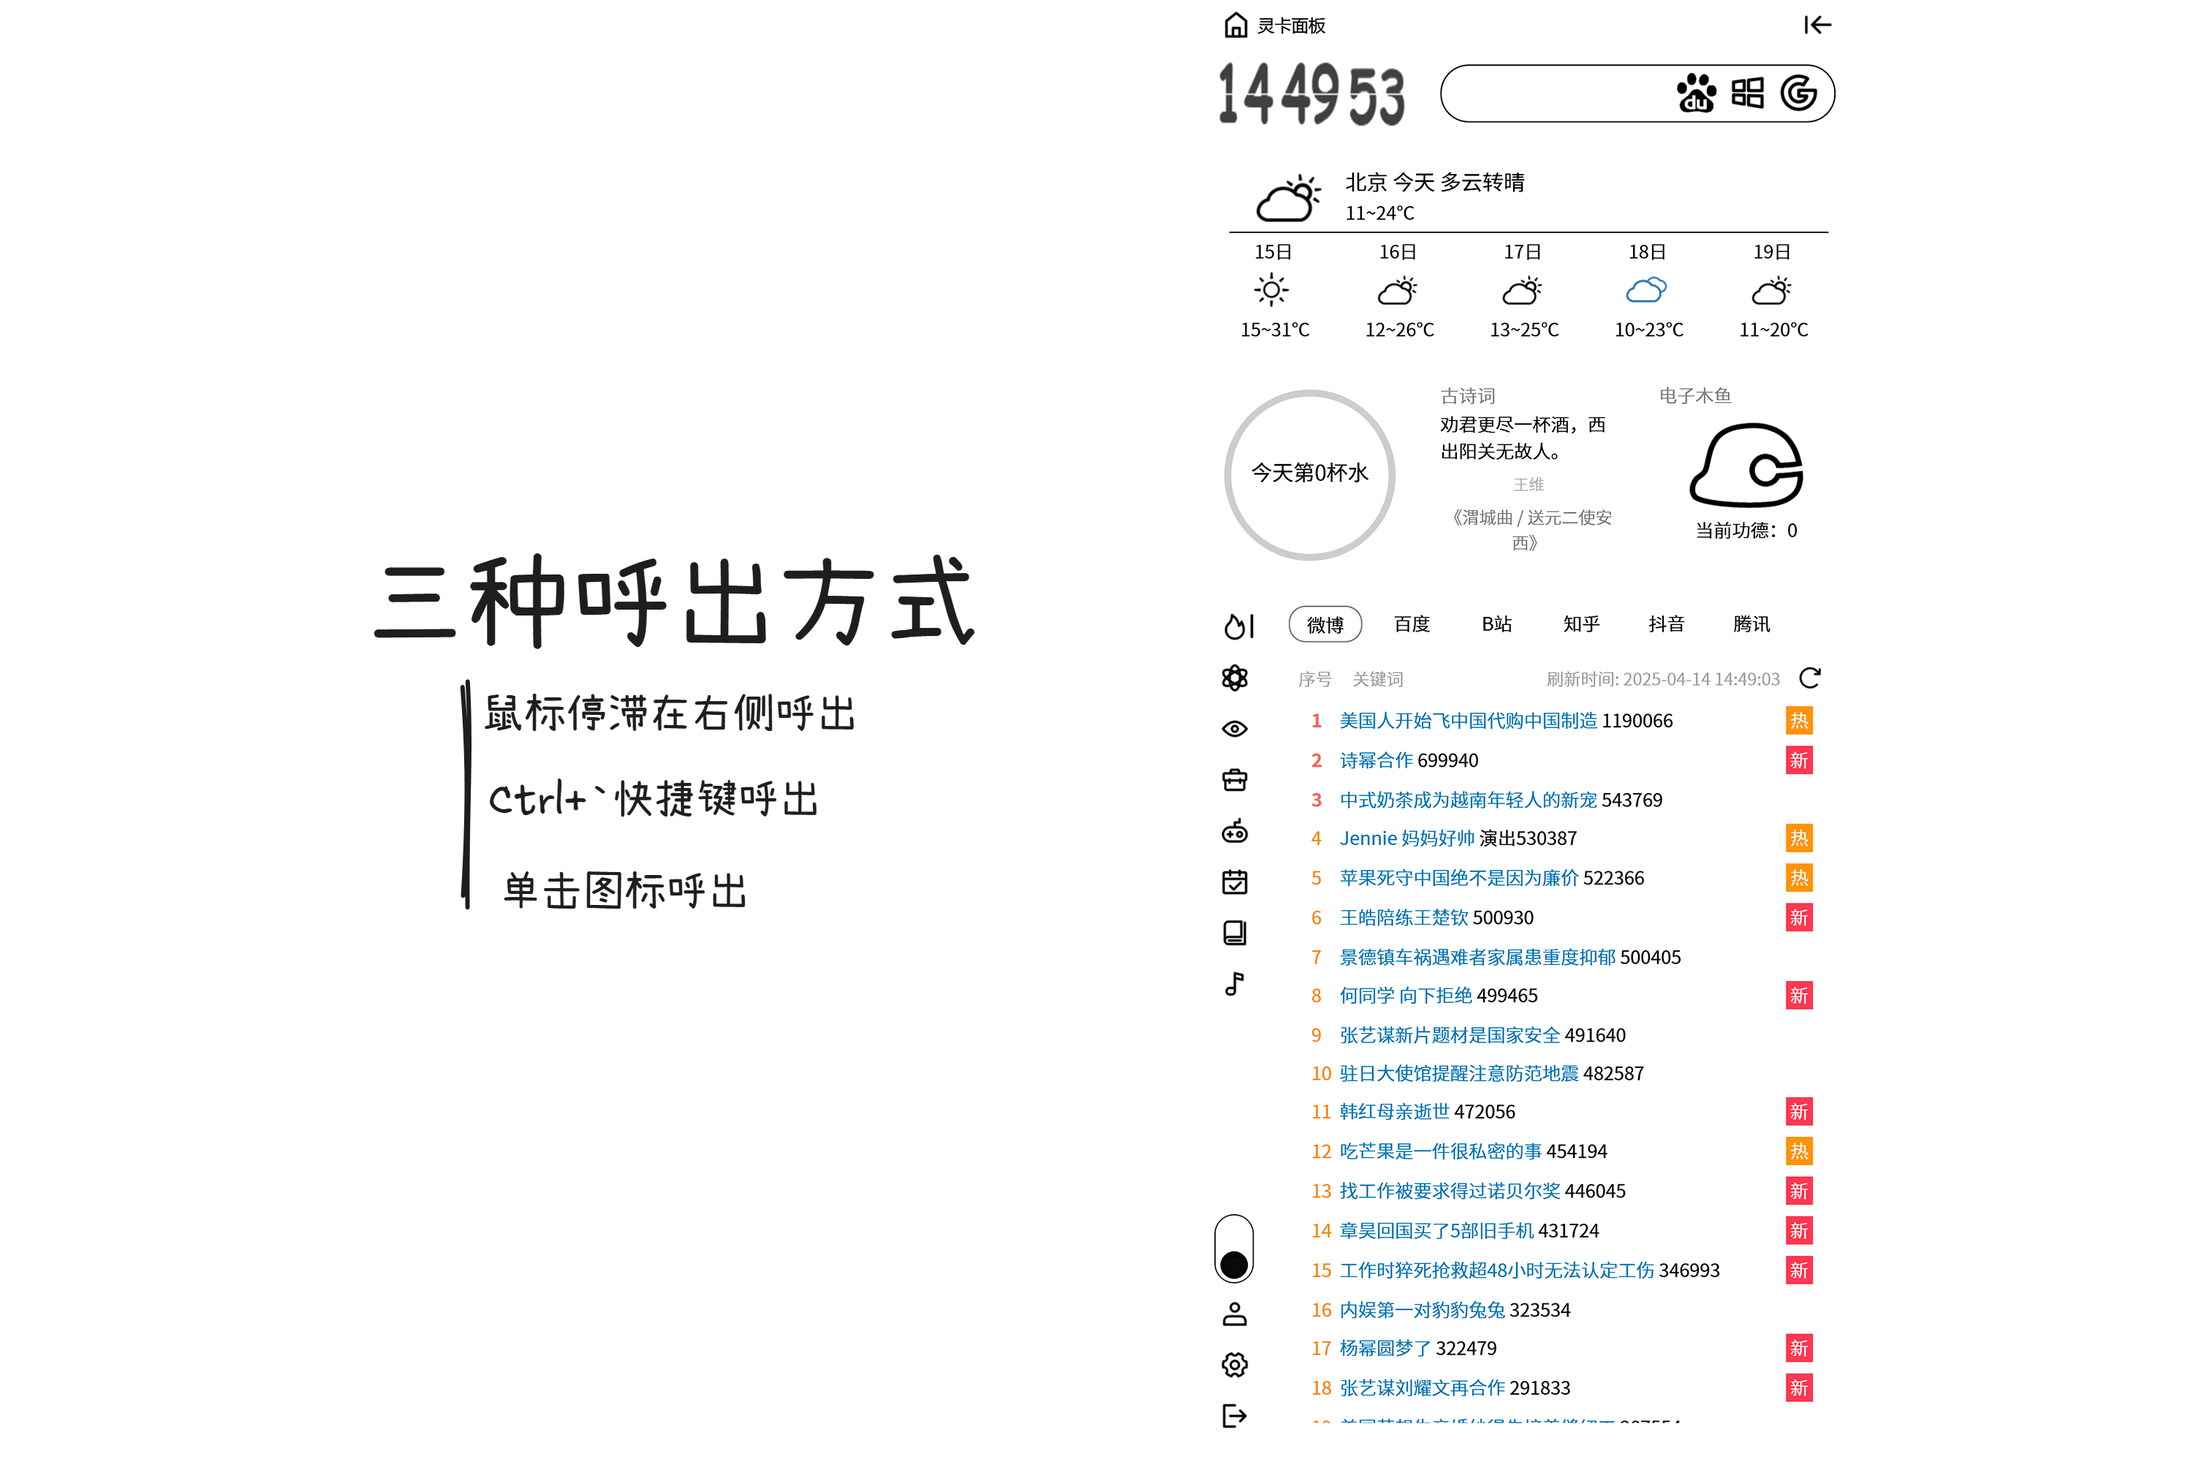
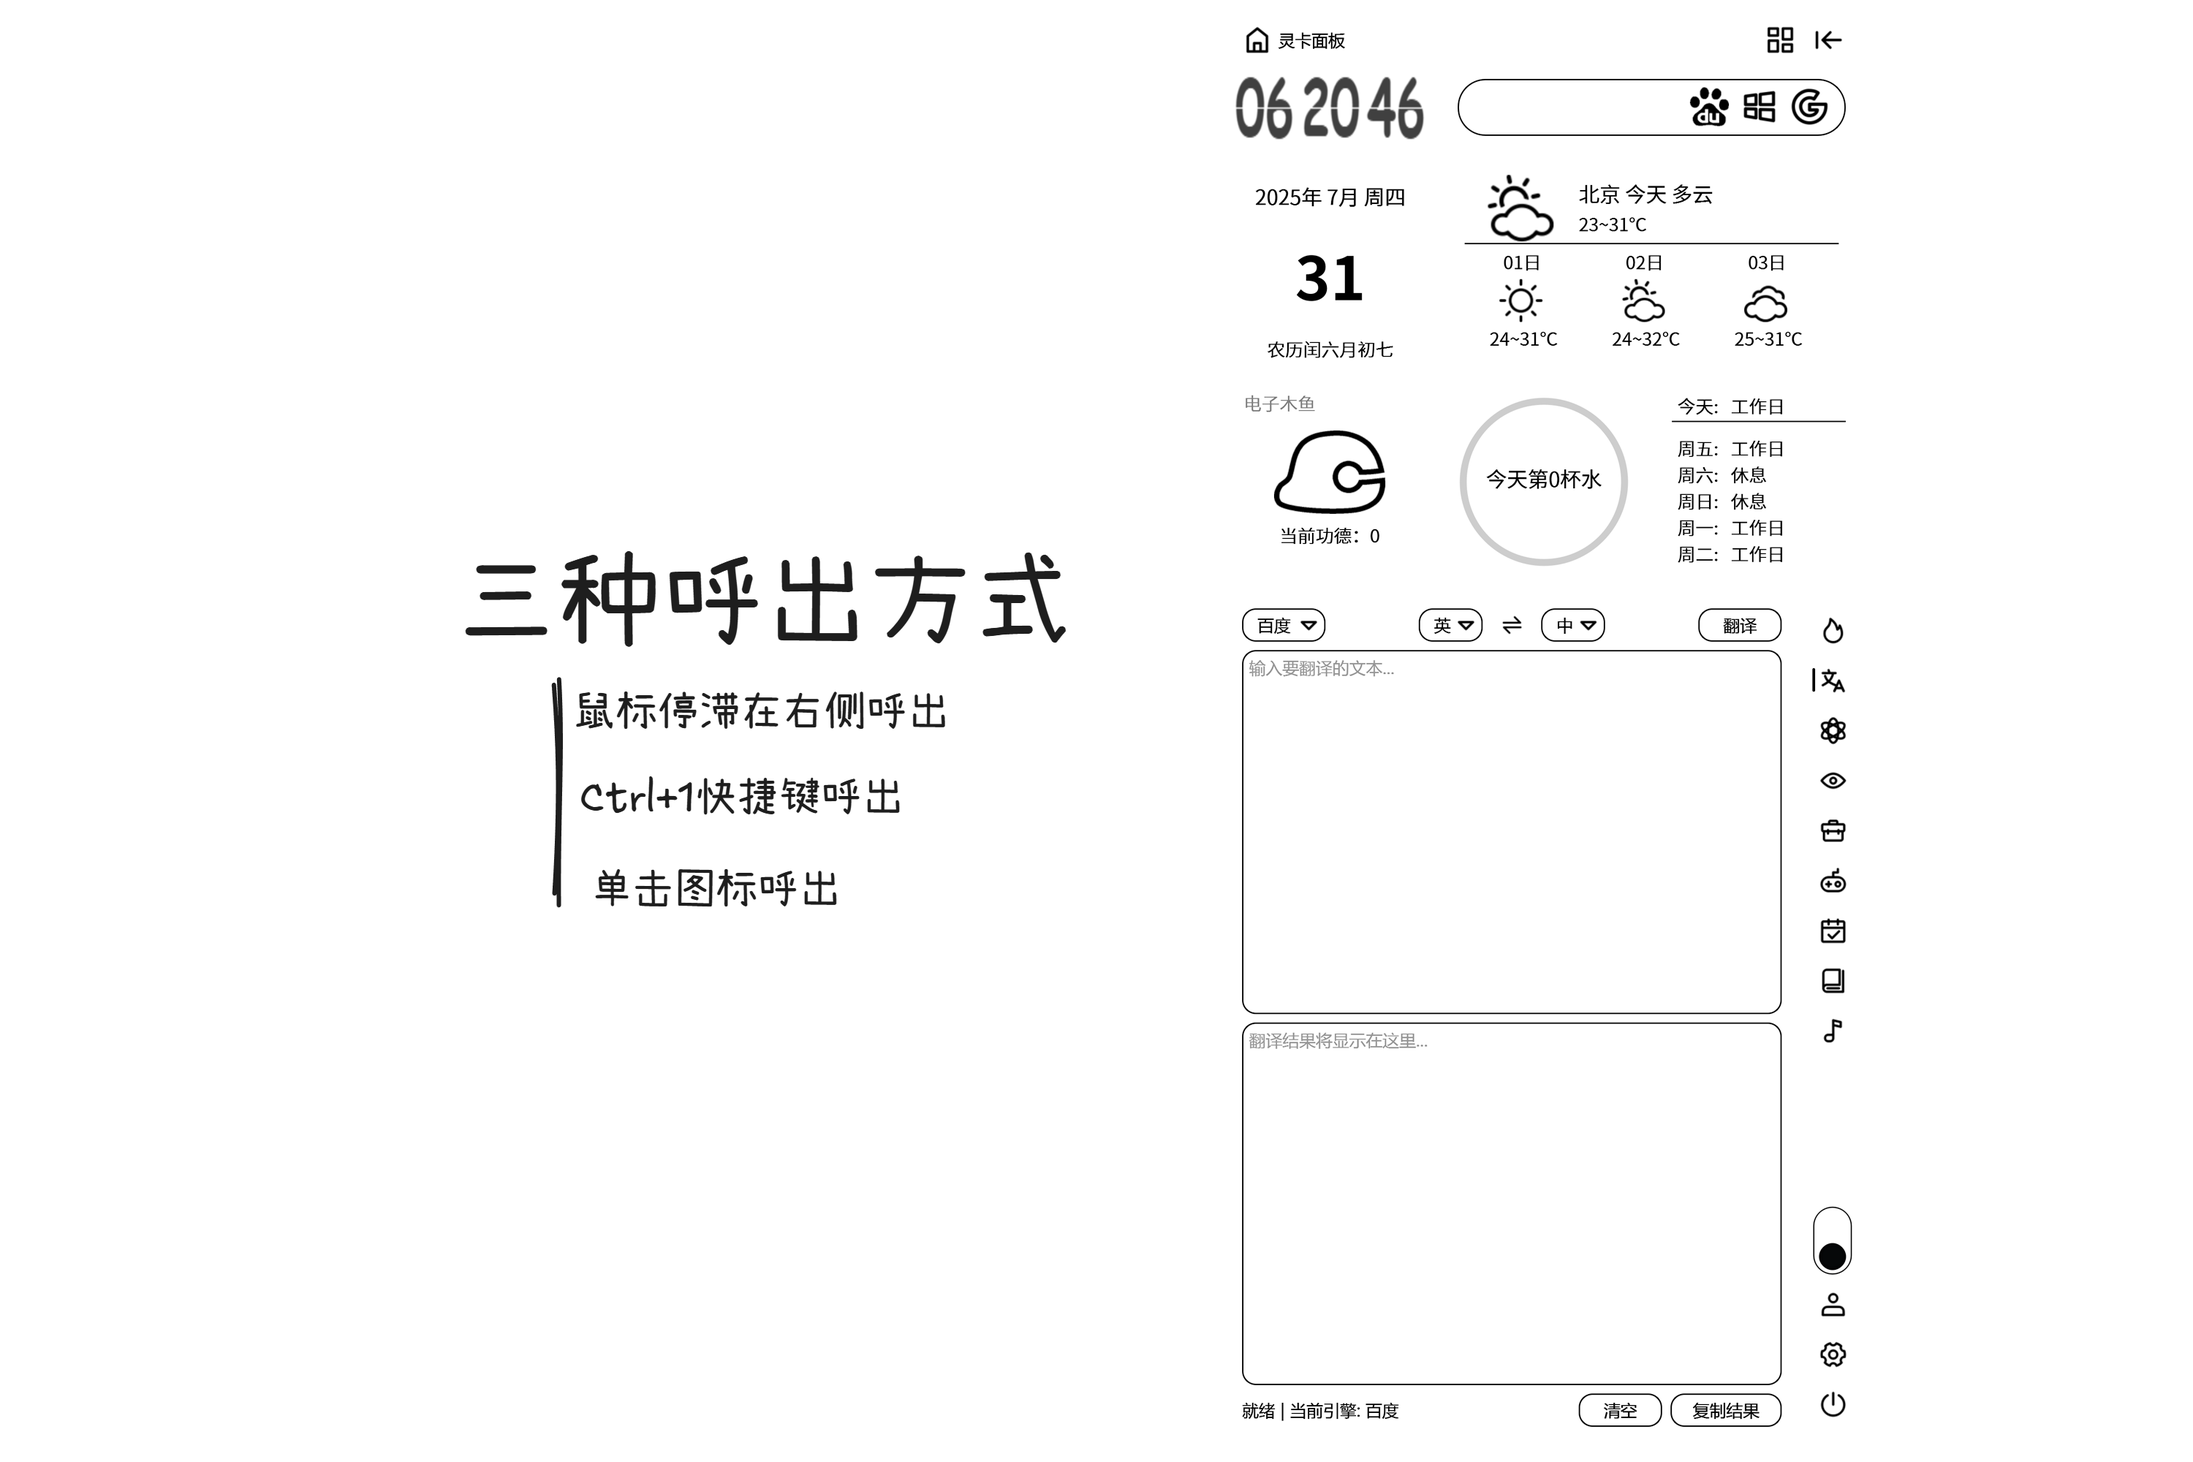
v0.5.4

diff --git a/AgileTiles.py b/AgileTiles.py
@@ -145,6 +145,7 @@ class MyForm(MainAcrylicWindow, Ui_Form):
     refresh_token = None
     # 启动状态
     is_first = True
+    start_login_view = False        # 登录窗口是否展示
     # 更新相关
     agree_update = True
     update_red_dot = None   # 更新提示红点
@@ -264,7 +265,6 @@ class MyForm(MainAcrylicWindow, Ui_Form):
                     self.main_data = self.save_default_data(self.current_user["username"])
                 else:
                     self.main_data = json.loads(main_data_str)
-
         except Exception as e:
             traceback.print_exc()
             print("启动失败")
@@ -379,6 +379,7 @@ class MyForm(MainAcrylicWindow, Ui_Form):
         self.login_restart_data = None
 
     def show_start_login_window(self):
+        self.start_login_view = True
         if not self.is_first:
             # 设置主题到QSetting
             settings = QSettings(self.app_name, "Theme")
@@ -387,6 +388,7 @@ class MyForm(MainAcrylicWindow, Ui_Form):
         self.user_server_recover_win = StartLoginWindow(None, self)
         self.user_server_recover_win.refresh_geometry(self.toolkit.resolution_util.get_screen(self))
         self.user_server_recover_win.exec()
+        self.start_login_view = False
 
     def save_user(self, username, refresh_token):
         register_success = self.database_manager.register_user(username, refresh_token)
@@ -501,7 +503,7 @@ class MyForm(MainAcrylicWindow, Ui_Form):
 
     def sync_data(self):
         try:
-            if self.current_user is None or self.current_user["username"] is None:
+            if self.current_user is None or self.current_user["username"] is None or self.access_token is None:
                 return
             self.user_data_client.pull_data(self.current_user["username"], self.access_token)
         except Exception:
@@ -515,7 +517,7 @@ class MyForm(MainAcrylicWindow, Ui_Form):
             if result["data"] is None:
                 print("云端无数据，需要上传到云端")
                 try:
-                    if self.current_user is not None and self.current_user["username"] is not None:
+                    if self.current_user is not None and self.current_user["username"] is not None and self.access_token is not None:
                         self.user_data_client.push_data(self.current_user["username"], self.access_token, self.main_data)
                 except Exception as e:
                     traceback.print_exc()
@@ -642,6 +644,22 @@ class MyForm(MainAcrylicWindow, Ui_Form):
         self.theme_idempotence = True
         # 隐藏背景
         self.label_background.hide()
+        # 删除vip角标
+        if self.ticket_vip_sign is not None:
+            try:
+                self.ticket_vip_sign.hide()
+                self.ticket_vip_sign.deleteLater()
+                self.ticket_vip_sign = None
+            except Exception:
+                pass
+        # 删除更新红点
+        if self.update_red_dot is not None:
+            try:
+                self.update_red_dot.hide()
+                self.update_red_dot.deleteLater()
+                self.update_red_dot = None
+            except Exception:
+                pass
 
     def do_login_again(self):
         # 初始化分辨率参数、位置和大小
@@ -929,6 +947,9 @@ class MyForm(MainAcrylicWindow, Ui_Form):
             self.user_info_client.get_user_info(self.current_user["username"], self.access_token)
             # 检查更新
             update_module.check_update_normal(self)
+            # 如果登录界面正在显示，则不进行令牌刷新避免登录界面的闪退
+            if self.start_login_view:
+                return
             # 更新令牌
             self.user_info_client.refresh(self.current_user["username"], self.refresh_token, self.hardware_id)
         except Exception:
@@ -944,15 +965,13 @@ class MyForm(MainAcrylicWindow, Ui_Form):
         self.current_user = {
             "id": result["data"]["id"],
             "nickName": result["data"]["nickName"],
-            "username": self.current_user["username"],
+            "username": result["data"]["username"],
             "accessToken": self.access_token,
             "refreshToken": self.refresh_token,
-            "isVip": self.is_vip,
+            "isVip": result["data"]["isVip"],
             "vipExpireTime": result["data"]['vipExpireTime'],
             "inviteCode": result["data"]["inviteCode"],
         }
-        # 更新刷新令牌到本地
-        self.database_manager.update_user_refresh_token(self.current_user["username"], self.refresh_token)
         # 判断是否为vip用户
         if not self.current_user['isVip']:
             self.is_vip = False
@@ -1113,6 +1132,9 @@ class MyForm(MainAcrylicWindow, Ui_Form):
 
     def on_hotkey_triggered(self):
         """快捷键进入退出动画"""
+        # 如果登录窗口展示则不处理动画
+        if self.start_login_view:
+            return
         try:
             # 直接使用Qt方法置顶窗口
             self.raise_()
@@ -1154,9 +1176,12 @@ class MyForm(MainAcrylicWindow, Ui_Form):
     ''' **********************************其他*************************************** '''
 
     def show_hide_form(self, click_button):
-        """右键不处理动画"""
+        """显示或隐藏窗口"""
         # 右键不处理动画
         if click_button is not None and click_button == QSystemTrayIcon.ActivationReason.Context:
+            return
+        # 如果登录窗口展示则不处理动画
+        if self.start_login_view:
             return
         # 当前时间戳
         current_time = int(round(time.time() * 1000))

diff --git a/src/module/Ticket/TicketSystem/TicketSystem.py b/src/module/Ticket/TicketSystem/TicketSystem.py
@@ -8,9 +8,8 @@ from src.client import common
 class TicketSystem:
     """工单系统管理类"""
 
-    def __init__(self, parent, access_token):
+    def __init__(self, parent):
         self.parent = parent
-        self.access_token = access_token
         self.network_manager = QNetworkAccessManager(parent)
         self.tickets = []  # 存储工单列表
 
@@ -18,7 +17,7 @@ class TicketSystem:
         """获取用户工单列表"""
         url = QUrl(f"{common.BASE_URL}/tickets/normal")
         request = QNetworkRequest(url)
-        request.setRawHeader(b"Authorization", self.access_token.encode())
+        request.setRawHeader(b"Authorization", self.parent.access_token.encode())
 
         reply = self.network_manager.get(request)
         reply.finished.connect(lambda: self._handle_ticket_response(reply, callback))
@@ -27,7 +26,7 @@ class TicketSystem:
         """获取工单详情"""
         url = QUrl(f"{common.BASE_URL}/tickets/normal/{ticket_id}")
         request = QNetworkRequest(url)
-        request.setRawHeader(b"Authorization", self.access_token.encode())
+        request.setRawHeader(b"Authorization", self.parent.access_token.encode())
 
         reply = self.network_manager.get(request)
         reply.finished.connect(lambda: self._handle_ticket_details_response(reply, callback))
@@ -37,7 +36,7 @@ class TicketSystem:
         url = QUrl(f"{common.BASE_URL}/tickets/normal/{ticket_id}/responses")
         request = QNetworkRequest(url)
         request.setRawHeader(b"Content-Type", b"application/json")
-        request.setRawHeader(b"Authorization", self.access_token.encode())
+        request.setRawHeader(b"Authorization", self.parent.access_token.encode())
 
         data = {
             "content": content,
@@ -52,7 +51,7 @@ class TicketSystem:
         """关闭工单"""
         url = QUrl(f"{common.BASE_URL}/tickets/normal/{ticket_id}/close")
         request = QNetworkRequest(url)
-        request.setRawHeader(b"Authorization", self.access_token.encode())
+        request.setRawHeader(b"Authorization", self.parent.access_token.encode())
 
         reply = self.network_manager.post(request, QByteArray())
         reply.finished.connect(lambda: self._handle_close_ticket(reply, callback))

diff --git a/src/card/main_card/TranslateCard/TranslateCard.py b/src/card/main_card/TranslateCard/TranslateCard.py
@@ -48,6 +48,53 @@ class TranslateCard(MainCard):
         # 网络管理器
         self.network_manager = QNetworkAccessManager(self)
 
+    def clear(self):
+        try:
+            try:
+                self.swap_button.clicked.disconnect()
+            except Exception as e:
+                print(e)
+            try:
+                self.translate_button.clicked.disconnect()
+            except Exception as e:
+                print(e)
+            try:
+                self.clear_button.clicked.disconnect()
+            except Exception as e:
+                print(e)
+            try:
+                self.copy_button.clicked.disconnect()
+            except Exception as e:
+                print(e)
+            try:
+                self.info_bar.hide()
+                self.info_bar.deleteLater()
+                self.engine_combo.hide()
+                self.engine_combo.deleteLater()
+                self.source_lang_combo.hide()
+                self.source_lang_combo.deleteLater()
+                self.swap_button.hide()
+                self.swap_button.deleteLater()
+                self.target_lang_combo.hide()
+                self.target_lang_combo.deleteLater()
+                self.translate_button.hide()
+                self.translate_button.deleteLater()
+                self.source_text.hide()
+                self.source_text.deleteLater()
+                self.target_text.hide()
+                self.target_text.deleteLater()
+                self.status_label.hide()
+                self.status_label.deleteLater()
+                self.clear_button.hide()
+                self.clear_button.deleteLater()
+                self.copy_button.hide()
+                self.copy_button.deleteLater()
+            except Exception as e:
+                print(e)
+            super().clear()
+        except Exception as e:
+            print(e)
+
     def init_ui(self):
         super().init_ui()
         # 创建主控件

diff --git a/src/module/Pay/qr_code_box_util.py b/src/module/Pay/qr_code_box_util.py
@@ -5,6 +5,7 @@ from PySide6.QtGui import Qt, QFont, QPixmap
 from PySide6.QtCore import Signal, QTimer
 from PySide6.QtWidgets import QVBoxLayout, QLabel, QHBoxLayout, QLayout, QStackedLayout, QWidget
 
+from src.client import common
 from src.component.AgileTilesAcrylicWindow.AgileTilesAcrylicWindow import AgileTilesAcrylicWindow
 from src.component.LoadAnimation.LoadAnimation import LoadAnimation
 from src.module.Pay.payment_result_page import PaymentResultPage
@@ -210,7 +211,7 @@ class QrPopup(AgileTilesAcrylicWindow):
 
         # 协议提示
         agreement_info = QLabel(
-            '开通前请阅读<a href="http://www.baby7blog.com:8787/agreement.html#%E7%94%A8%E6%88%B7%E5%8D%8F%E8%AE%AE"><span style="color: #4d90fe; text-decoration: underline;">《会员协议》</span></a>')
+            f'开通前请阅读<a href="{common.user_agreement_url}"><span style="color: #4d90fe; text-decoration: underline;">《用户协议》</span></a>')
         agreement_info.setAlignment(Qt.AlignmentFlag.AlignCenter)
         agreement_info.setOpenExternalLinks(True)
         agreement_info_font = QFont()

diff --git a/src/module/Screen/screen_module.py b/src/module/Screen/screen_module.py
@@ -299,6 +299,9 @@ def check_hide_window(main_window):
 
 def trigger_show_animation(main_window):
     """ 触发显示动画 """
+    # 如果登录窗口展示则不处理动画
+    if main_window.start_login_view:
+        return
     if not main_window.show_form:
         # print("鼠标触发,显示窗口")
         main_window.toolkit.resolution_util.in_animation(main_window)
@@ -307,6 +310,9 @@ def trigger_show_animation(main_window):
 
 def trigger_hide_animation(main_window):
     """ 触发隐藏动画 """
+    # 如果登录窗口展示则不处理动画
+    if main_window.start_login_view:
+        return
     if main_window.show_form:
         # print("鼠标触发,隐藏窗口")
         main_window.toolkit.resolution_util.out_animation(main_window)

diff --git a/src/constant/version_constant.py b/src/constant/version_constant.py
@@ -164,6 +164,14 @@ update_map_info = {
     "v0.5.3": [
         "对上一个版本进行修复和调整",
     ],
+    "v0.5.4": [
+        "调整引导程序的图片",
+        "禁用退出登录后显示和隐藏主界面的功能",
+        "支付界面的用户协议修改跳转链接",
+        "修复会员成功后未刷新界面的问题",
+        "修复重新登录后翻译卡片的中英互换文字重影问题",
+        "修复重新登录后会员工单的vip角标未显示的问题",
+    ],
 }
 
 update_map_date = {
@@ -188,6 +196,7 @@ update_map_date = {
     "v0.5.1": "2025-07-27",
     "v0.5.2": "2025-07-30",
     "v0.5.3": "2025-07-30",
+    "v0.5.4": "2025-07-31",
 }
 
 

diff --git a/src/ui/image_util.py b/src/ui/image_util.py
@@ -145,12 +145,6 @@ def screenshot(widget):
         painter.fillRect(widget.rect(), Qt.GlobalColor.transparent)  # 清理原有内容
         painter.setCompositionMode(QPainter.CompositionMode.CompositionMode_SourceOver)
         painter.scale(scale_factor, scale_factor)
-        # 添加界面刷新
-        widget.repaint()
-        # 增加渲染等待时间
-        start_time = time.time()
-        while time.time() - start_time < 1:  # 等待100ms确保渲染完成
-            QApplication.processEvents()
         # 添加必要的参数调用 render 方法
         target_offset = QPoint()  # 目标偏移量
         source_region = QRegion(widget.rect())  # 源区域

diff --git a/src/module/Login/start_login.py b/src/module/Login/start_login.py
@@ -247,8 +247,6 @@ class StartLoginWindow(AgileTilesFramelessDialog, Ui_Form):
             self.refresh_token = result["data"]["refreshToken"]
             # 存储用户信息
             self.use_parent.save_user(self.username, self.refresh_token)
-            # 更新刷新令牌到本地
-            self.use_parent.database_manager.update_user_refresh_token(self.username, self.refresh_token)
             # 非vip用户直接展示成功
             if not self.is_vip:
                 # 隐藏加载层

diff --git a/src/module/Updater/update_module.py b/src/module/Updater/update_module.py
@@ -40,7 +40,7 @@ def handle_silent_update_result(main_object, success, update_info):
         return
 
     # 获取强制更新标志
-    force_update = update_info.get("update", False)
+    force_update = update_info.get("updateTag", False)
 
     if force_update:
         show_force_update_dialog(main_object, update_info)

diff --git a/set_first_run.py b/set_first_run.py
@@ -1,0 +1,4 @@
+from PySide6.QtCore import QSettings
+
+settings = QSettings("AgileTiles", "TutorialProgram")
+settings.setValue("FirstRun", True)
